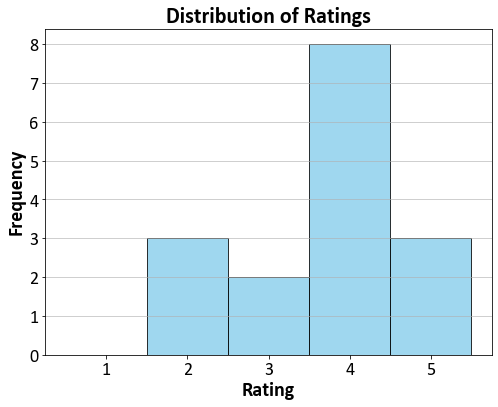
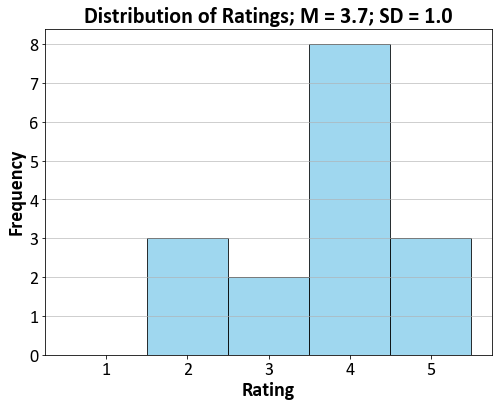
Add files via upload

Changed region(s): [[0.1506, 0.0, 0.9036, 0.0885]]

diff --git a/website_thematicanalysis.py b/website_thematicanalysis.py
@@ -102,7 +102,9 @@ plt.figure(figsize=(8, 6))
 plt.hist(df['Rating'], bins=np.arange(0.5, 6.5, 1), color='skyblue', edgecolor='black', alpha=0.8)
 plt.xlabel('Rating', fontweight='bold', fontsize=fs)
 plt.ylabel('Frequency', fontweight='bold', fontsize=fs)
-plt.title("Distribution of Ratings", fontweight='bold', fontsize=fs+2)
+mean_rating = np.mean(df['Rating'])
+std_rating = np.std(df['Rating'])
+plt.title(f"Distribution of Ratings; M = {mean_rating:.1f}; SD = {std_rating:.1f}", fontweight='bold', fontsize=fs+2)  # Format mean to 2 decimal places
 plt.xticks(fontsize=xtfs)
 plt.yticks(fontsize=xtfs)
 plt.grid(axis='y', alpha=0.75)
